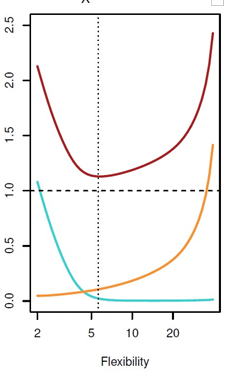
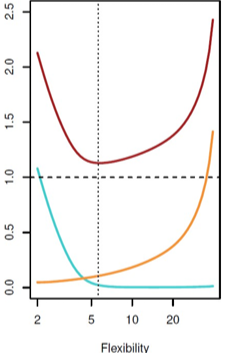
best subet selection

diff --git a/book/2_models/1_Model_selection.md b/book/2_models/1_Model_selection.md
@@ -26,6 +26,7 @@ In neurocognitive psychology, brain imaging (e.g., fMRI, EEG), cognitive assessm
 
 This is where **linear model selection** becomes essential, offering techniques to refine our models and extract meaningful insights from high-dimensional neurocognitive data!
 
+----------------------------------------------------------------
 ### *Todays data with many predictors - Hitters dataset*
 For pracitcal demonstration, we will use the `Hitters` dataset. This data set provides Major League Baseball Data from the 1986 and 1987 seasons. It contains 322 observations of major league players on 20 variables. The Research aim is to predict a baseball player's salary on the basis of various predictors associated with the performance in the previous year.
 
@@ -42,10 +43,22 @@ Also take a closer look to the variable you want to predict! Do we have the info
 
 <iframe src="https://trinket.io/embed/python3/d980217b790c" width="100%" height="356" frameborder="0" marginwidth="0" marginheight="0" allowfullscreen></iframe>
 
+For computationally reasons, we will not include all predictors but only a small subset
+```{code-cell} 
+# keeping a total of 10 variables - the outcome Salary and 9 predictors.
+# Keeping only Salary and 9 predictors
+hitters_subset = hitters[["Salary", "CHits", "CAtBat", "CRuns", "CWalks", "Assists", "Hits", "HmRun", "Years", "Errors"]].copy()
+
+# make sure the rows, containing missing values, are dropped
+hitters_subset.dropna(inplace=True)
+
+hitters_subset.head()
+```
+
 
 Okay, now that we know our dataset, let's look at how to handle such a large number of predictors! 
 
-
+----------------------------------------------------------------
 ## Handling big data in linear models
 To handle large datasets efficiently in linear modeling, three key techniques are used:
 - Subset Selection
@@ -61,90 +74,191 @@ In subset selection we identify a subset of *p* predictos that are truly related
 
 How do we determine which variables are relevant?! 
 
-####  *Best Subset Selestion*
+####  Best Subset Selection
+
+```{image} ./figures/BestSubsetSelection.drawio.png
+:alt: ModelSelection
+:width: 20%
+:align: left
+```
 
 ```{margin}
 The Null Model only predicts the sample mean
 ```
 
-<div style="display: flex; align-items: center;">
-  <!-- Picture left -->
-  <div style="flex: 0 0 auto; margin-right: 20px; text-align: center;">
-    <figure>
-      <img src="BestSubsetSelection.drawio.png" alt="ModelSelection" width="200">
-      <figcaption>Best Subset Selection</figcaption>
-    </figure>
-  </div>
-
-  <!-- Text on the right -->
-  <div style="flex: 1;">
-    <ol>
-      <li>Consider all possible models
-        <ul>
-          <li>Starting with Null Model <em>M0</em>, which contains no predictors</li>
-          <li>Iteratively adding a predictor to the model</li>
-        </ul>
-      </li>
-      <li>Identify the Best Model of each size
-        <ul>
-          <li>Either by the smallest RSS or the largest <code>R²</code></li>
-        </ul>
-      </li>
-      <li>Identify the Best Overall Model
-        <ul>
-          <li>Use cross-validation to find the best <em>Mk</em></li>
-        </ul>
-      </li>
-    </ol>
-  </div>
-</div>
+1. Consider all possible models
+    - Starting with Null Model <em>M0</em>, which contains no predictors
+    Iteratively adding a predictor to the model
+2. Identify the Best Model of each size
+    - Either by the smallest RSS or the largest <code>R²</code></li>
+3. Identify the Best Overall Model
+    - Use cross-validation to find the best <em>Mk</em></li>
 
 
 
 
-#### *Forward Stepwise Selection*
+Let's get back to our dataset and see how Best Subset Seletion is performed in python.
+
+```{code-cell} ipython3
+:tags: ["remove-input"]
+from jupyterquiz import display_quiz
+display_quiz("Quiz/Quiz_BestSubsetSelection.json", shuffle_answers=False)
+```
+
+We will use the abess library, which stands for Adaptive BEst Subset Selection. It implements a powerful and efficient algorithmic framework to find the optimal feature subset extremely fast. It is open-source and publicly available on GitHub: https://github.com/abess-team/abess
+If you need more details:https://abess.readthedocs.io/en/latest/auto_gallery/1-glm/plot_1_LinearRegression.html#sphx-glr-auto-gallery-1-glm-plot-1-linearregression-py
+
+```{code-cell} 
+from abess.linear import LinearRegression 
+import numpy as np
+import pandas as pd
+
+# Prepare data
+X= np.array(hitters_subset.drop("Salary", axis=1))
+y= np.array(hitters_subset["Salary"])
+
+# Use abess for best subset selection
+model = LinearRegression(support_size=range(1, 10))  # support_size is how many features to try
+model.fit(X, y)
+
+# Get selected features (non-zero coefficients)
+ind = np.nonzero(model.coef_)
+print("non-zero:\n", hitters_subset.columns[ind])
+print("coef:\n", model.coef_)
+```
+The abess algorithm evaluates all possible combinations of our 9 predictors and automatically selects the best subset based on internal criteria (e.g., minimizing BIC). In our case, it selected just two predictors: `CAtBat` and `Assists` 
+
+´abess´ already includes every step — so you don't need to perform cross-validation separately for example. 
+
+If you want more control over the process (e.g., custom evaluation metrics, manual cross-validation), you can also implement Best Subset Selection manually using `mlxtend`.
+
+```{code-cell} 
+from sklearn.linear_model import LinearRegression
+from sklearn.model_selection import cross_val_score
+from mlxtend.feature_selection import ExhaustiveFeatureSelector as EFS
+
+
+# Define predictors (X) and response variable (y)
+X = hitters_subset.drop(columns=["Salary"])
+y = hitters_subset["Salary"]
+
+# Define the regression model (learner)
+model = LinearRegression()
+
+# Define 5-fold cross-validation
+cv_folds = 5
+
+# Perform best subset selection 
+efs = EFS(model, 
+          min_features=1, 
+          max_features=9,       # Try all subsets from 1 to 9 features
+          scoring='r2',         # Use R² as performance metric
+          cv=cv_folds,          # Apply k-fold cross-validation (e.g., 5-fold)
+          print_progress=False)
+
+efs.fit(X, y)
+
+# Print best feature subset
+print("Best Features:", efs.best_feature_names_)
+print("Best R² (CV):", efs.best_score_)
+```
+After Step 2, you can plot the R² values of all models (e.g., M₁, M₂, ...) to visualize how performance varies across different model sizes.
+
+
+```{code-cell}
+import pandas as pd
+
+# All results as dictionary
+results = efs.get_metric_dict()
+
+# Convert to DataFrame
+summary_df = pd.DataFrame([
+    {
+        'features': res['feature_names'],
+        'r2_mean': res['avg_score']
+    }
+    for res in results.values()
+])
+
+# Sort by best R²
+summary_df = summary_df.sort_values(by='r2_mean', ascending=False)
+
+summary_df.head()  # Show top models
+```
+
+
+```{code-cell}
+import matplotlib.pyplot as plt
+import pandas as pd
+
+# Extract metric results
+metric_dict = efs.get_metric_dict()
+results = []
+
+for subset in metric_dict.values():
+    n_features = len(subset['feature_idx'])
+    avg_score = subset['avg_score']
+    results.append((n_features, avg_score))
+
+# Create DataFrame
+results_df = pd.DataFrame(results, columns=["n_features", "avg_r2"])
+
+# Aggregate by number of features (in case multiple subsets have the same size)
+results_df = results_df.groupby("n_features", as_index=False).max()
+
+# Plot
+plt.figure(figsize=(8, 5))
+plt.plot(results_df["n_features"], results_df["avg_r2"], marker="o")
+plt.title("Best Subset Selection: R² vs. Number of Features")
+plt.xlabel("Number of Features")
+plt.ylabel("Cross-validated R²")
+plt.show()
+
+```
+
+Here, ´mlxtend´ manually evaluates all combinations of predictors (from 1 to 9 features) using k-fold cross-validation and selects the subset with the highest average R². This gives you fine-grained control over the evaluation and selection process.
+
+
+
+
+
+#### Forward Stepwise Selection
+
+```{image} ./figures/ForwardStepwiseSelection.drawio.png
+:alt: ModelSelection
+:width: 20%
+:align: left
+```
 
 Best subset selection is not feasible for very large *p* due to its computational demands. A more efficient way solving this problem, is foward stepwise selection. 
 
-<div style="display: flex; align-items: center;">
-  <!-- Picture left -->
-  <div style="flex: 0 0 auto; margin-right: 20px; text-align: center;">
-    <figure>
-      <img src="ForwardStepwiseSelection.drawio.png" alt="ModelSelection" width="200">
-      <figcaption>Best Subset Selection</figcaption>
-    </figure>
-  </div>
-
-  <!-- Text on the right -->
-  <div style="flex: 1;">
-    <ol>
-      <li>Beginning with Null Model <em>M0</em>
-      <li>Adding the most significant variables one after the other
-        <ul>
-          <li>Either by the smallest RSS or the largest <code>R²</code></li>
-        </ul>
-      </li>
-      <li>Repeat it until...
-        <ul>
-          <li>k=p
-          <li>reaching a stopping criteria
-        </ul>
-       <li>Identifying the single best model using cross-validation
-      </li>
-    </ol>
-  </div>
-</div>
+1. Beginning with null hypothesis
+2. Adding the most significant variables one after the other
+    - Either by the smallest RSS or the largest <code>R²</code></li>
+3. Repeat it until...
+    - reaching a stopping criteria
+    - k=p
+4. Identifying the single best model using cross-validation
 
 
-#### *Backward Stepwise Selection*
+
+#### Backward Stepwise Selection
+```{image} ./figures/BackwardStepwiseSelection.drawio.png
+:alt: ModelSelection
+:width: 10%
+:align: left 
+```
+
 ```{margin}
 The Full Model contain all p predictors!
 ```
-1. Beginning with the Full Model *Mp* 
-2. Iteratibely removes the least usefull predictor
-3. Repeat until *k=0*
-4. Identify the best overall model using cross-validation
 
+1. Beginning with the Full Model <em>Mp</em>
+2. Iteratibely removes the least usefull predictor
+3. Repeat it until...
+    - reaching a stopping criteria
+    - <em>k=0</em>
+4. Identify the best overall model using cross-validation
 
 
 

diff --git a/book/1_basics/2_bias_variance.md b/book/1_basics/2_bias_variance.md
@@ -33,21 +33,15 @@ Overfitting: occurs when a function is too closely aligned to the training data 
 
 One key issue is handling irreducible error and keeping training as well as test MSE in check. A model that is too closely fitted to the training data may resemble a tailor-made suit—perfectly customized for one person but unlikely to fit anyone else. Similarly, a model with a very low **training MSE** might appear to perform well, but its inability to generalize to new, unseen data often results in a high **test MSE**.
 
+```{sidebar}
+![Bias Variance Trade Off - Red is the MSE, blue the Bias, and yellow the Variance](./figures/Bias_Variance.png)
+```
 As you make your model more flexible, in other words taking more paremters into 
-account, you are essentially trading off between bias and variance:
-<div style="display: flex; align-items: flex-start;">
-  <div style="flex: 1;">
-    <p>
-      Initially, as the model becomes more flexible, its bias decreases faster than its variance increases. This occurs because a more flexible model can capture more complex patterns, thereby reducing bias. However, increased flexibility also makes the model more sensitive to fluctuations in the training data, which increases variance. Eventually, the reduction in bias stops compensating for the increase in variance, causing the test MSE to first decrease and then increase.
-    </p>
-  </div>
-  <div style="flex: 0 0 auto; margin-left: 20px; text-align: right;">
-    <figure>
-      <img src="C:/Users/Conni_B/Documents/GitHub/psy112/book/1_basics/figures/Bias_Variance.png" alt="Bias-Vari" width="200">
-      <figcaption>red - MSE, blue - Bias, yellow - Variance</figcaption>
-    </figure>
-  </div>
-</div>
+account, you are essentially **trading off between bias and variance**:
+
+
+Initially, as the model becomes more flexible, its bias decreases faster than its variance increases. This occurs because a more flexible model can capture more complex patterns, thereby reducing bias. However, increased flexibility also makes the model more sensitive to fluctuations in the training data, which increases variance. Eventually, the reduction in bias stops compensating for the increase in variance, causing the test MSE to first decrease and then increase.
+
 
 
 ```{admonition} Summary
